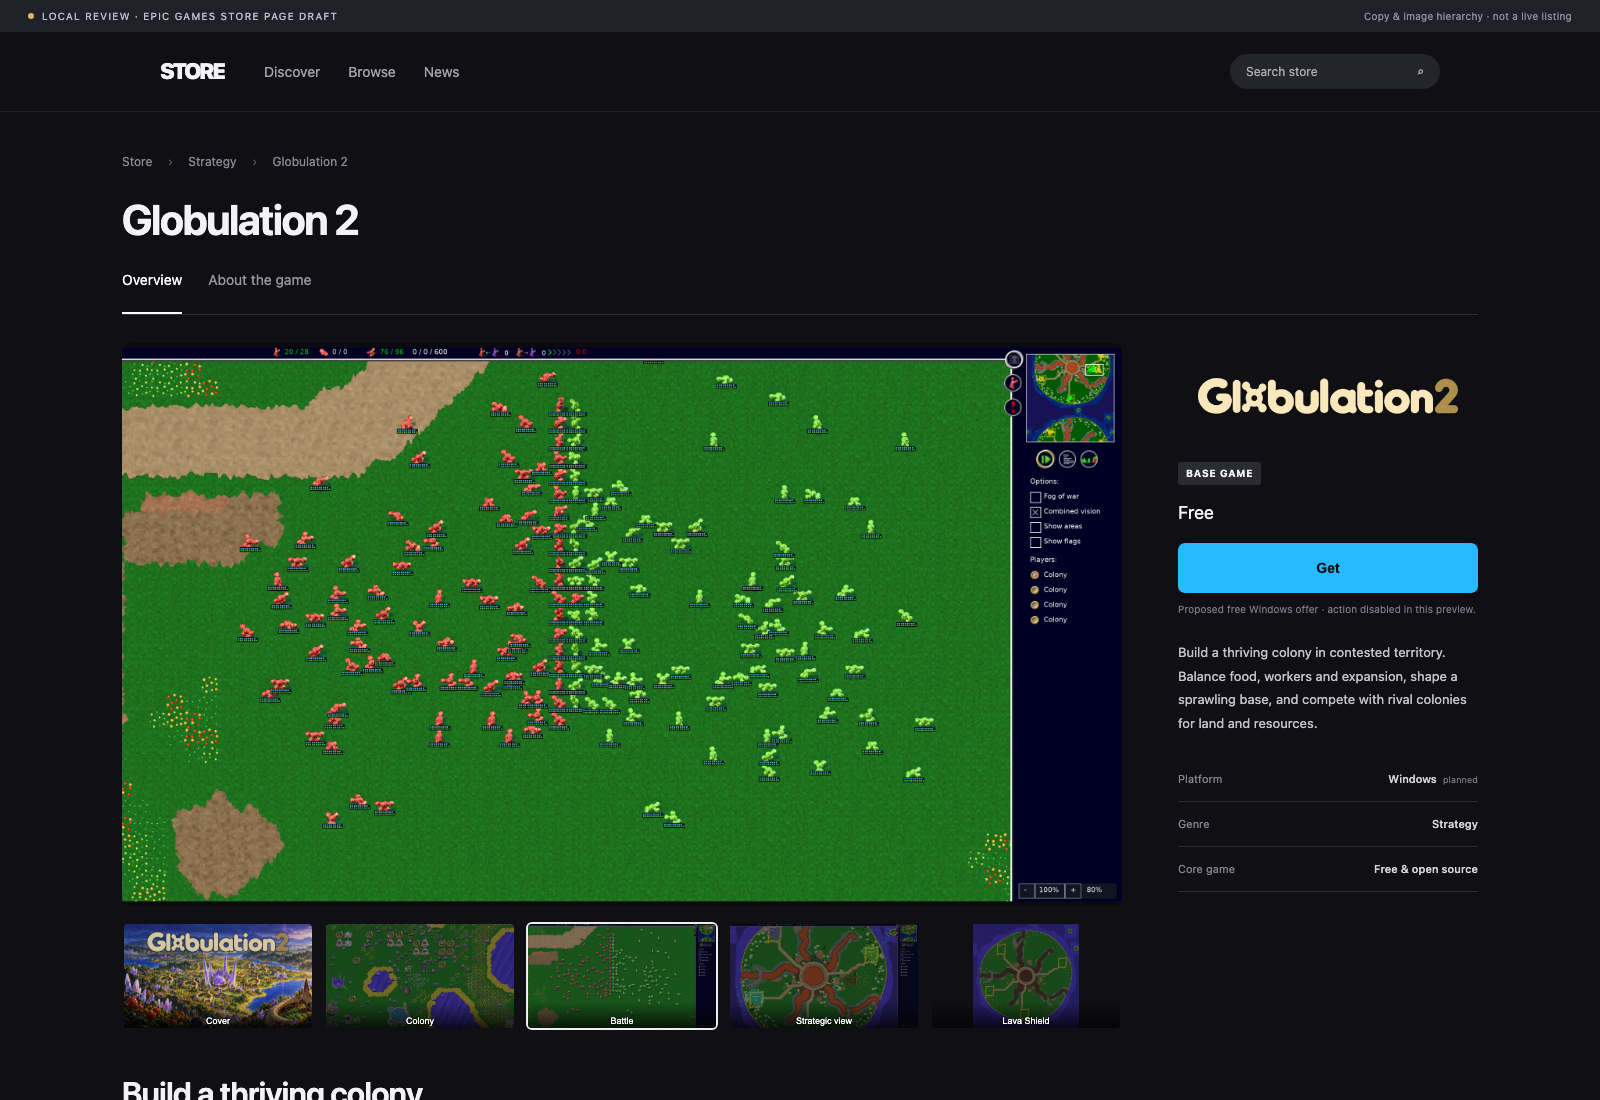
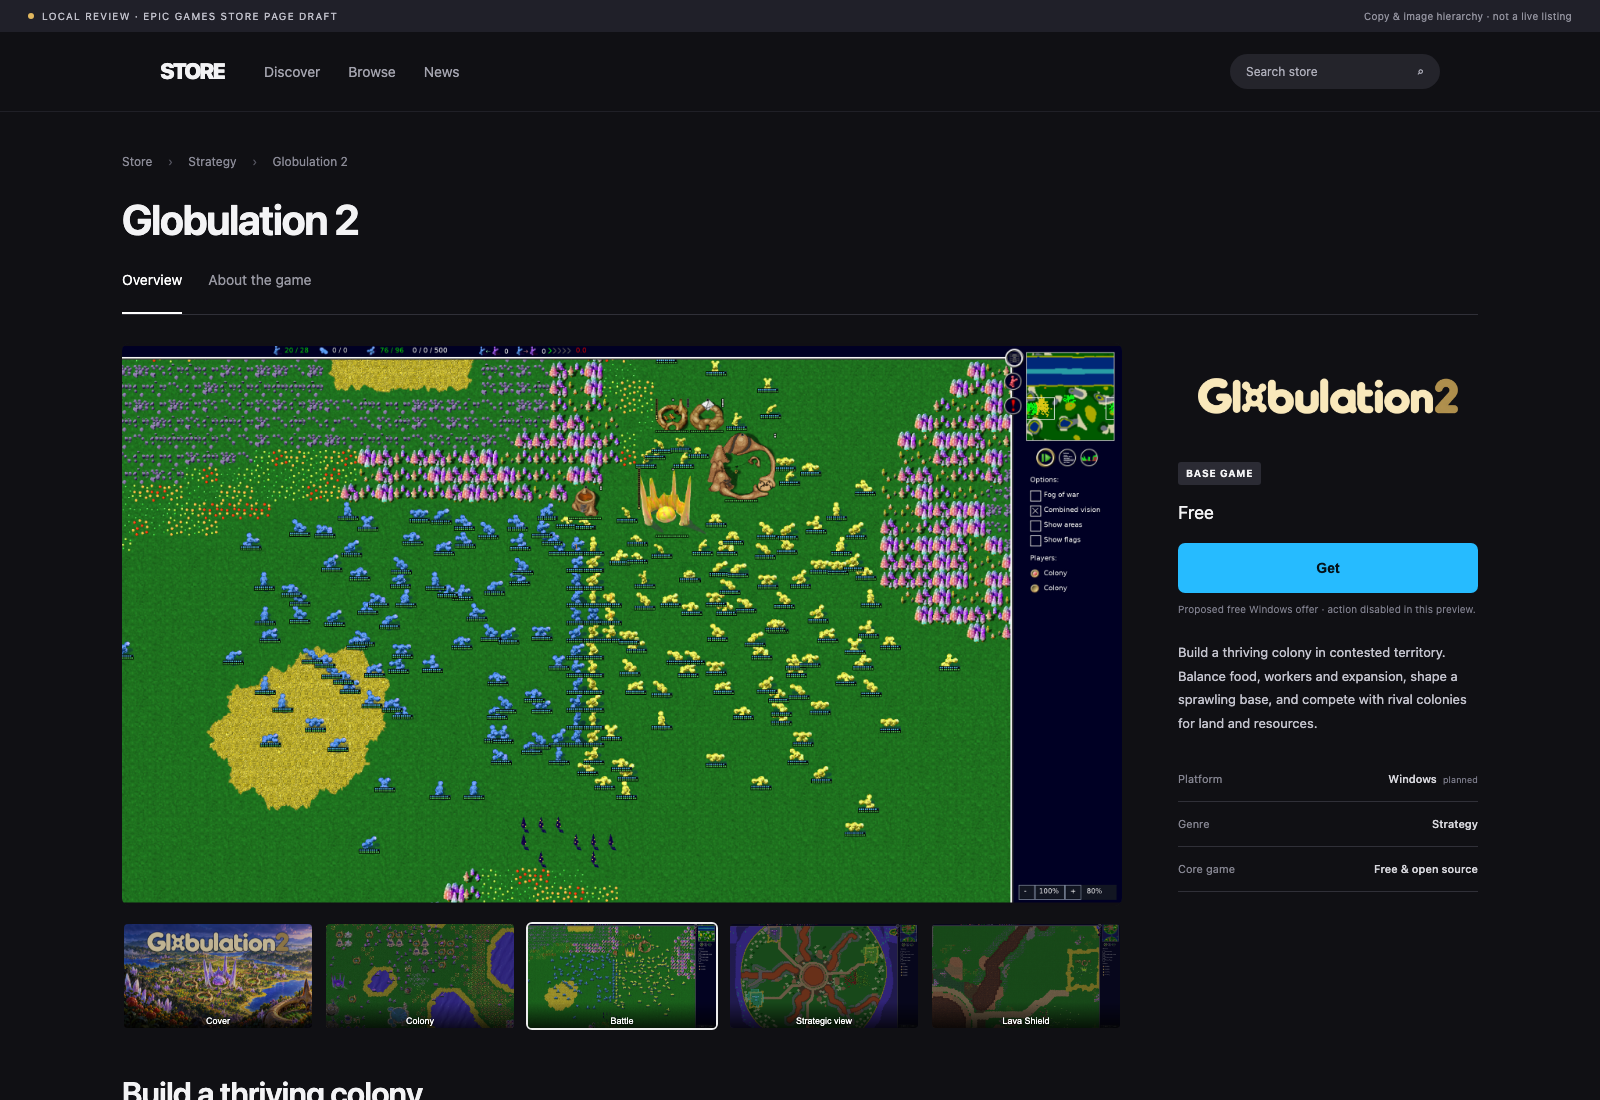
Give the store battle images a distinct map and team colours
Use the new River blue-and-gold native battle capture in the Battle gallery
entry and defence About section. This replaces only the earlier Lava Shield
battle image, adding map and colour variety without changing the approved
cover, colony, strategic overview, closer Lava Shield terrain, general
map-strategy copy or layout. Update alt text and separate River and Lava
Shield provenance in the preview notes and completed task ledger.

Render and visually review the selected Battle and defence section proofs.
Verify five gallery entries, correct hero selection and About image, full-HUD
contain framing, all images loaded, disabled Get control and no horizontal
overflow at the mobile viewport. Parent reviewed the page proof. Whitespace
checks pass. Existing historical images remain available with dated provenance;
this local preview does not change a live store or release qualification.

diff --git a/assets/epic-page-preview/index.html b/assets/epic-page-preview/index.html
@@ -18,14 +18,14 @@
 <div class="gallery" aria-label="Game media">
 <button class="thumb selected" aria-pressed="true" data-image="../epic-v5/offer-landscape-2560x1440.png" data-alt="Globulation 2 illustrated key art"><img src="../epic-v5/offer-landscape-2560x1440.png" alt="Cover"><span>Cover</span></button>
 <button class="thumb" aria-pressed="false" data-image="media/colony.webp" data-alt="A productive colony, with workers, food, buildings and resources"><img src="media/colony.webp" alt="Colony"><span>Colony</span></button>
-<button class="thumb" aria-pressed="false" data-image="../epic-gallery-v3/lava-shield-battle.jpg" data-alt="Native in-engine battle scene with opposing red and green warriors"><img src="../epic-gallery-v3/lava-shield-battle.jpg" alt="Battle"><span>Battle</span></button>
+<button class="thumb" aria-pressed="false" data-image="../epic-gallery-v4/river-battle.jpg" data-alt="Native in-engine battle scene with opposing blue and gold warriors on River"><img src="../epic-gallery-v4/river-battle.jpg" alt="Battle"><span>Battle</span></button>
 <button class="thumb" aria-pressed="false" data-image="../epic-gallery-v3/lava-shield-strategic.jpg" data-alt="Native strategic overview showing colony territory, building icons and opposing forces on Lava Shield"><img src="../epic-gallery-v3/lava-shield-strategic.jpg" alt="Strategic view"><span>Strategic view</span></button>
 <button class="thumb" aria-pressed="false" data-image="../epic-gallery-v3/lava-shield-terrain-in-use.jpg" data-alt="Lava Shield in use, with colony buildings, units and routes around the lava terrain"><img src="../epic-gallery-v3/lava-shield-terrain-in-use.jpg" alt="Lava Shield terrain in use"><span>Lava Shield</span></button>
 </div>
 <section class="summary" id="about"><h2>Build a thriving colony<br>in contested territory.</h2><p>Food, workers and space shape your expansion. Grow a sprawling colony, balance its competing needs, and contend with rivals for land and resources. Your creatures act autonomously, letting you guide the colony as a whole.</p><div class="genres"><div><span>GENRES</span><p>Strategy · Real-Time Strategy</p></div><div><span>FOCUS</span><p>Colony building · Resource management</p></div></div></section>
 <section class="story"><img src="media/colony.webp" alt="A colony economy of buildings, food supplies and workers"><div class="storytext"><span class="eyebrow">FOOD. WORKERS. GROWTH.</span><h2>Grow an economy that<br>can sustain your ambitions.</h2><p>Food, construction and training compete for your workforce. Decide where workers are needed and balance new ambitions with the needs of the colony you already have.</p></div></section>
 <section class="story"><img src="../epic-gallery-v3/lava-shield-strategic.jpg" alt="Native strategic view of Lava Shield showing colony territory, buildings and a contested front"><div class="storytext"><span class="eyebrow">A NEW MAP. A NEW PLAN.</span><h2>Make the map<br>part of your strategy.</h2><p>Different maps call for different strategies. Adapt your expansion to the terrain, choose what to defend, and find the routes and resources your colony needs.</p></div></section>
-<section class="story"><img src="../epic-gallery-v3/lava-shield-battle.jpg" alt="Opposing red and green warriors fighting in a native in-engine scene"><div class="storytext"><span class="eyebrow">GROWTH UNDER PRESSURE</span><h2>Defend what<br>you've built.</h2><p>Your economy supports both growth and defense. Balance the needs of your colony while rivals compete for land and resources, and prepare for conflicts that can decide the match.</p></div></section>
+<section class="story"><img src="../epic-gallery-v4/river-battle.jpg" alt="Opposing blue and gold warriors fighting on River in a native in-engine scene"><div class="storytext"><span class="eyebrow">GROWTH UNDER PRESSURE</span><h2>Defend what<br>you've built.</h2><p>Your economy supports both growth and defense. Balance the needs of your colony while rivals compete for land and resources, and prepare for conflicts that can decide the match.</p></div></section>
 <div class="opensource"><h3>Free and open source.</h3><p>A strategy game to play, explore and help shape.</p></div>
 </div>
 <aside>

diff --git a/assets/epic-page-preview/README.md b/assets/epic-page-preview/README.md
@@ -24,11 +24,11 @@ Copy derives from the [selected positioning](../../analysis/positioning-v1.md) a
 | --- | --- |
 | [Illustrated cover](../epic-v5/README.md) | Promotional key art: generated environment, existing title and exact source-unit silhouettes. It is not a gameplay screenshot. The sidebar logo uses the same pack. |
 | `media/colony.webp` | Unchanged website `public/images/home-thriving-colony.webp`, revision [6e391ebe](https://github.com/Globulation2/glob2-online-website/tree/6e391ebe93b725747827a3ed7cea78f0d0d8f7e1). Actual Fingerprint / Quick clash replay recorded 2026-10-11, tick41350, fog disabled and outer HUD cropped. It is not a fresh Epic Windows capture. |
-| [Battle](../epic-gallery-v3/lava-shield-battle.jpg) | Native GameGUI output of a staged in-engine scenario with opposing warrior forces and actual combat stepped before capture. It is not a frame recovered from an ordinary completed match. |
-| [Strategic view](../epic-gallery-v3/lava-shield-strategic.jpg) | The same staged scenario rendered through the native strategic-overview GUI, showing territory, building icons and unit markers. This demonstrates the actual overview presentation rather than substituting a flat map export. |
+| [Battle](../epic-gallery-v4/river-battle.jpg) | Native GameGUI output of a staged River scenario with blue and gold warriors in actual combat. Prepared on 2026-10-30 to add another map and different team colours. It is not an ordinary completed match. |
+| [Strategic view](../epic-gallery-v3/lava-shield-strategic.jpg) | The staged Lava Shield scenario rendered through the native strategic-overview GUI, showing territory, building icons and unit markers. This demonstrates the actual overview presentation rather than substituting a flat map export. |
 | [Lava Shield terrain in use](../epic-gallery-v3/lava-shield-terrain-in-use.jpg) | A closer native view of the staged scenario, showing colony activity and units in the lava terrain. Replaces the similar whole-map framing on 2026-10-30; the strategic view remains unchanged. |
 
-The [staged capture pack](../epic-gallery-v3/README.md) records the scenario setup, actual combat observations, native renderer/HUD, source identities and export treatment. The scene was composed in the engine with real game units, buildings and terrain. No unit graphics, combat effects or interface elements were painted into the screenshots. It does not establish natural-match prevalence, player demand, game performance or Epic Windows launcher qualification.
+The [River battle pack](../epic-gallery-v4/README.md) and [Lava Shield capture pack](../epic-gallery-v3/README.md) record the respective scenario setups, actual combat observations, native renderer/HUD, source identities and export treatment. The scenes were composed in the engine with real game units, buildings and terrain. No unit graphics, combat effects or interface elements were painted into the screenshots. It does not establish natural-match prevalence, player demand, game performance or Epic Windows launcher qualification.
 
 The spatial About image uses the populated strategic view, and the defence section has the battle image. On **2026-10-30**, the spatial copy was broadened to explain how different maps call for different strategies; Lava Shield remains the illustration rather than the subject of that section. Lava Shield's crater, branching flows and crossings are supported by the [map guide](https://github.com/Globulation2/glob2/blob/53110681a31d08423568afe26d5b8d8f9ac45dd1/docs/map-generators/lava-shield.md). The [map capture pack](../epic-gallery-v2/README.md) retains the superseded whole-map export and its separate generation/render provenance.
 
@@ -45,7 +45,8 @@ Rendered in the local browser at 1600×1100 desktop and 390×844 mobile. The mob
 - [Desktop overview](desktop-overview.png)
 - [About section](about-section.png)
 - [Map-strategy section — copy updated 2026-10-30](map-strategy-section.png)
-- [Battle selected](battle-selection.png)
+- [Battle selected — River, updated 2026-10-30](battle-selection.png)
+- [Defence section — River battle](defence-section.png)
 - [Strategic view selected](strategic-selection.png)
 - [Lava Shield terrain selected — updated 2026-10-30](lava-shield-selection.png)
 - [Full-page review](desktop-full-page.jpg)
@@ -54,3 +55,5 @@ Rendered in the local browser at 1600×1100 desktop and 390×844 mobile. The mob
 After extending the gallery on **2026-10-27**, all review images were regenerated with local headless Chromium at the documented desktop/mobile viewports. The full-page image is a direct full-page browser render, with no stitching or content alterations. It is a local presentation review, not an Epic portal screenshot. Five entries, loaded assets, working selections, disabled Get, absence of retired/rejected-image references and no mobile overflow were checked. Delivery images and the whole map use contain framing so native HUD and map edges are preserved.
 
 On **2026-10-30**, only the fifth gallery image was replaced with the closer terrain-in-use capture after the user approved the other images and noted the whole-map/strategic duplication. The updated Lava Shield selection proof was rendered and inspected; image loading, selection, full-frame display and mobile overflow were checked. Other approved source images and About image assignments remain byte-identical. Earlier overview/full-page proofs retain their dated gallery thumbnails; the current selected proof above shows the replacement.
+
+Also on **2026-10-30**, the Battle gallery entry and defence About image were replaced with the River capture in blue and gold team colours. This adds map and colour variety while preserving the cover, colony, strategic and Lava Shield terrain source images. Battle selection and defence proofs were refreshed; desktop/mobile selection, image loading, full-frame display and overflow checks passed. Earlier overview proofs retain their dated thumbnails.

diff --git a/planning/tasks.md b/planning/tasks.md
@@ -40,6 +40,7 @@ On 2026-10-26, the user authorized completing the public platform audit and draf
 | MKT-025 | Integrate and review the expanded five-entry store gallery | Complete | [Presentation](../assets/epic-page-preview/README.md) now contains Cover/Colony/Battle/Strategic view/Lava Shield, with battle and strategic images in About. Desktop/mobile, all gallery selections, native HUD/whole-map framing, image loading and provenance reviewed; no live store changes. |
 | MKT-026 | Broaden the spatial-strategy About copy beyond Lava Shield | Complete | On 2026-10-30, the [local preview](../assets/epic-page-preview/README.md) describes adapting expansion, routes and defence across different maps. The strategic image and heading remain; the copy no longer presents this section as a Lava Shield description. About rendering and whitespace reviewed; no live store change. |
 | MKT-027 | Replace the repetitive Lava Shield map image with terrain in use | Complete | On 2026-10-30, the [last gallery slot](../assets/epic-page-preview/README.md) uses a closer native staged-scene view of colony activity, units and lava terrain. The user approved the other images; their source bytes and About assignments remain unchanged. Updated selection proof, image loading, full-frame display and mobile layout checked. Whole-map source retained as historical provenance; no live store change. |
+| MKT-028 | Give the battle screenshot a different map and team colours | Complete | On 2026-10-30, the [River battle pack](../assets/epic-gallery-v4/README.md) supplies native blue/gold combat for the gallery and defence About image. Other source images and copy remain unchanged. Battle/defence proofs, image loading, full-frame display and mobile layout reviewed. The scenario is staged in-engine; no live store change. |
 
 The user rejected the first artwork direction on 2026-10-26 as presentation-like. Its files remain historical evidence; the current art task is a full-bleed, image-led replacement informed by actual store covers, with title hierarchy and colony/economy imagery. The first generated illustration’s globs were also rejected. The subsequent [organism-shape study](../assets/epic-v2/README.md) remains historical: it relied too heavily on a generic icon rather than preserving distinct unit proportions. The user directed use of real character images, with longer, slender workers and bulkier warriors. [Unchanged source renders and a matched comparison sheet](../assets/epic-v2/unit-references/README.md) now supply that reference. A source-reference edit still failed to preserve exact anatomy. The [actual-source cover direction](../assets/epic-v4/README.md) instead uses an unchanged game scene with the existing title, keeping the real unit shapes. The [failed source-reference illustration](../assets/epic-v3/README.md) remains historical. The source covers are native-size review drafts, not submission exports; user visual feedback, fresh high-resolution captures and store qualification remain open.
 
